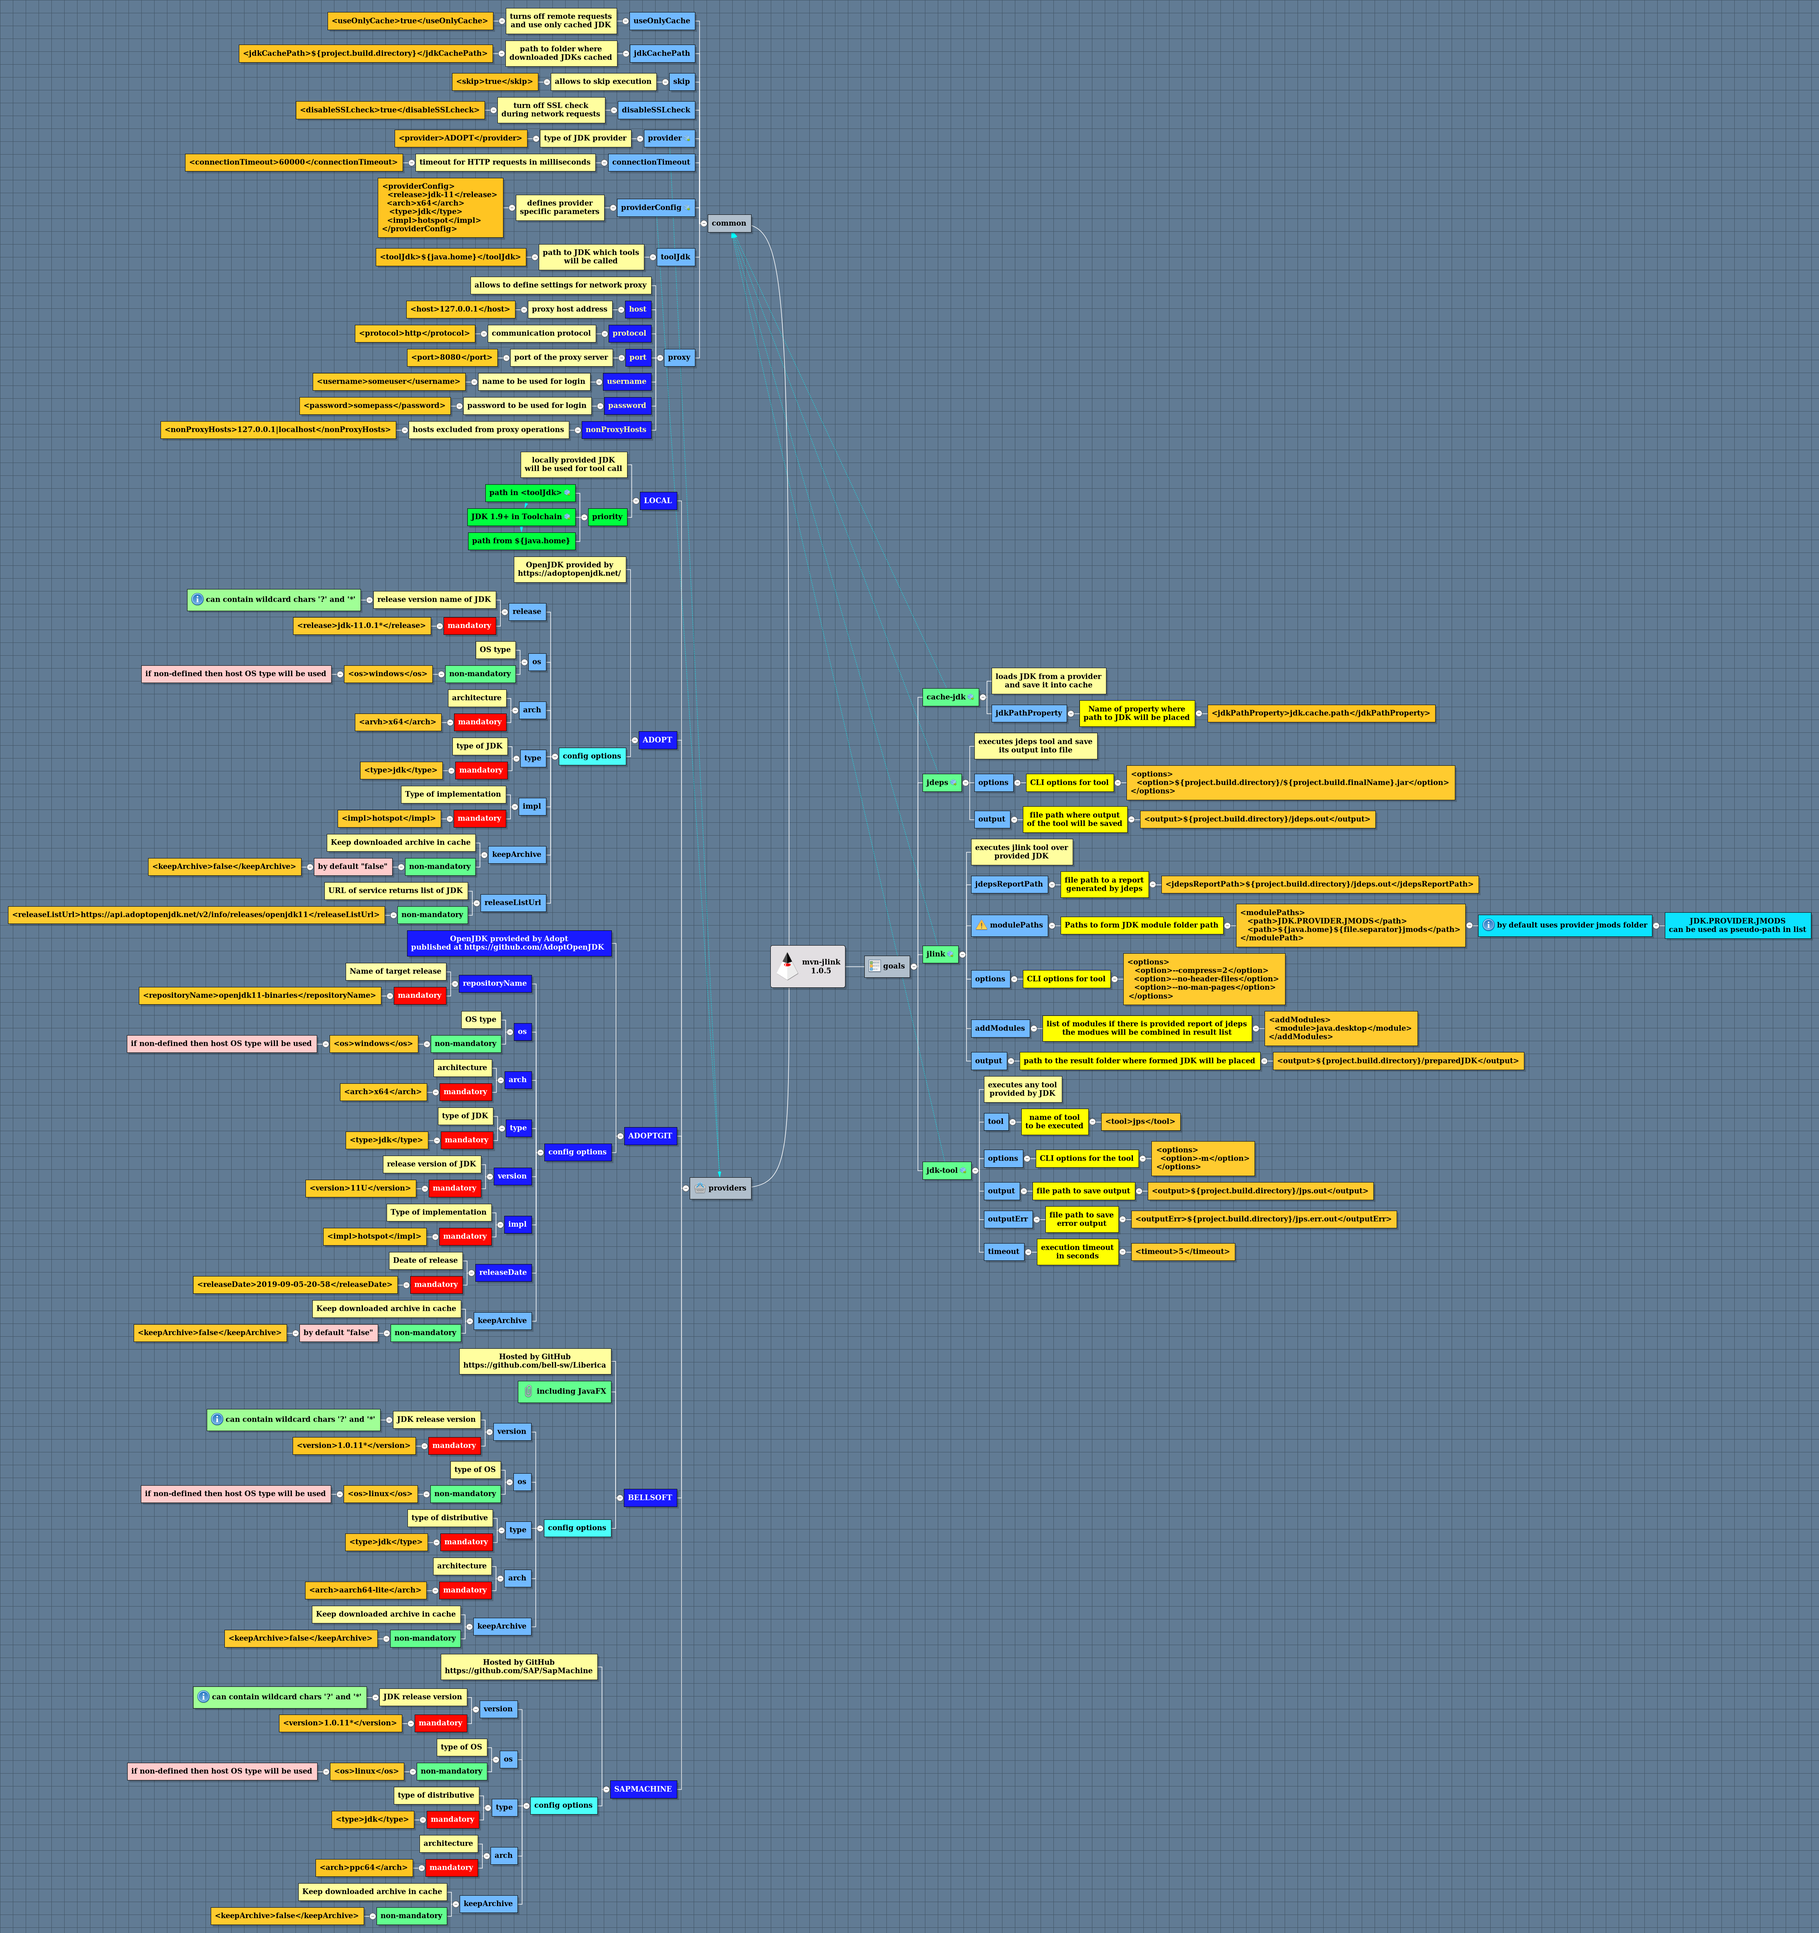
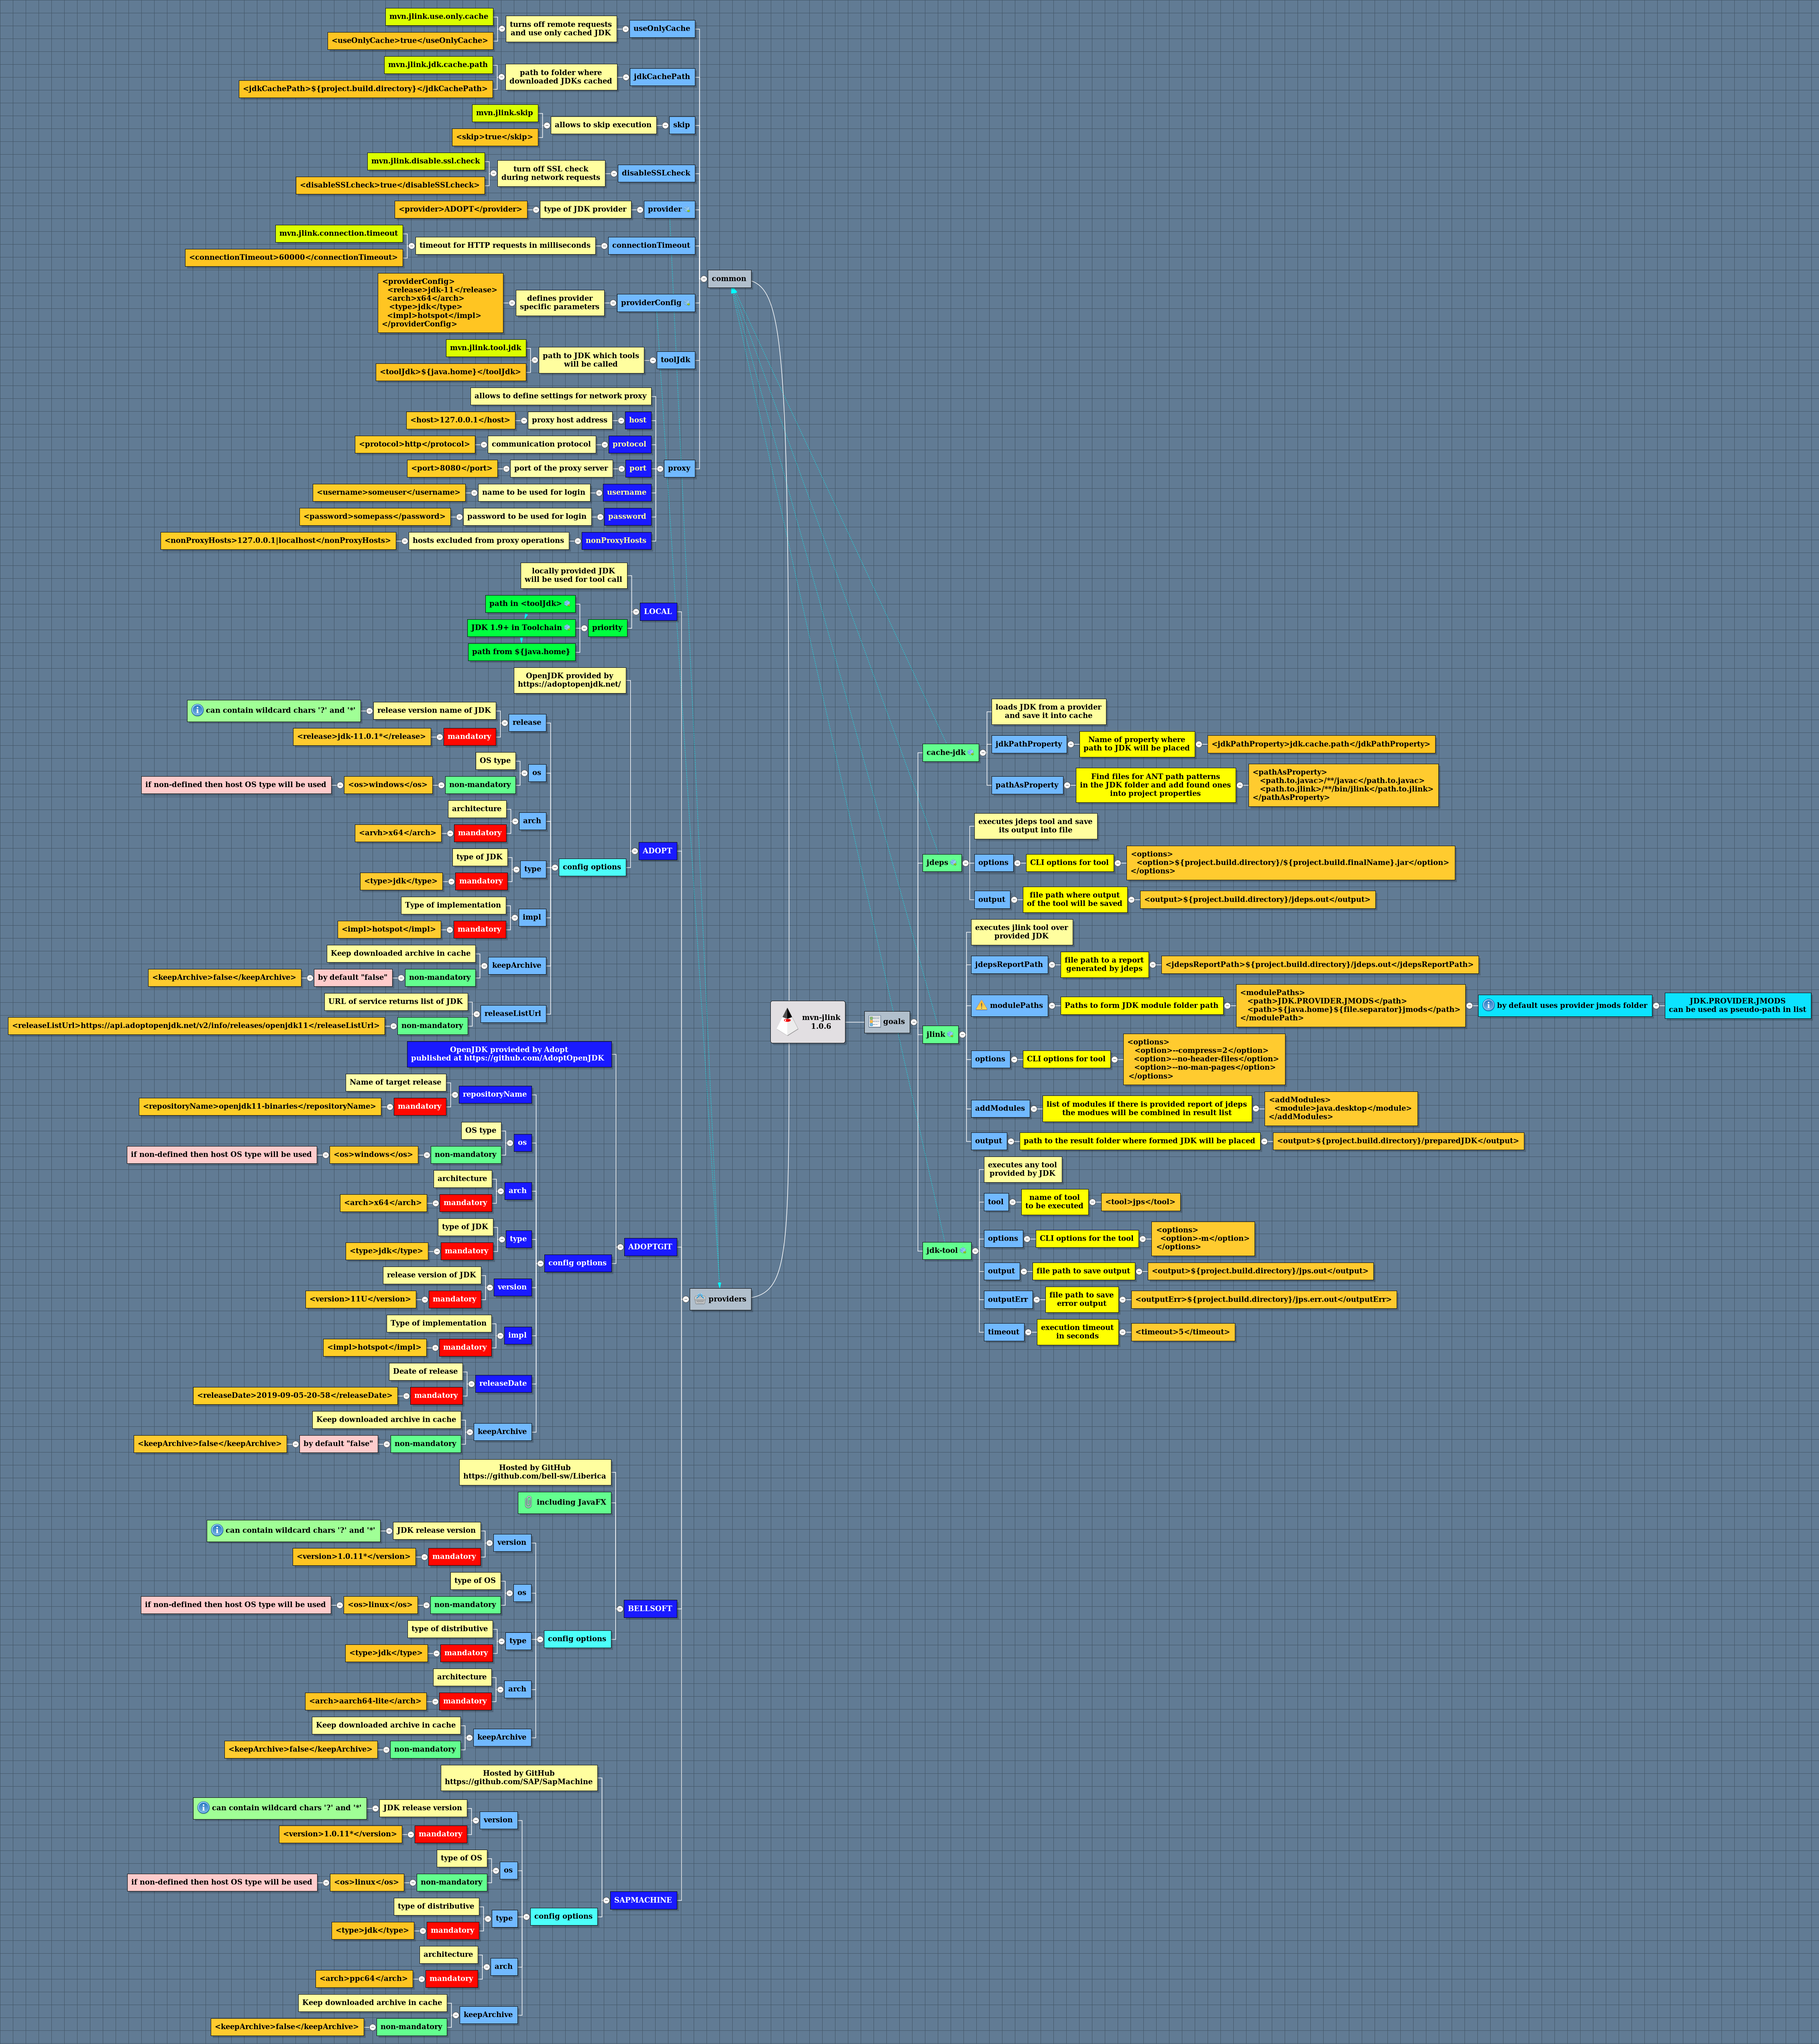
release 1.0.6

Changed region(s): [[0.0, 0.0, 1.0, 1.0], [0.4979, 0.3428, 1.0, 0.6855]]

diff --git a/mvn-jlink-wrapper/src/main/java/com/igormaznitsa/mvnjlink/mojos/AbstractJdkToolMojo.java b/mvn-jlink-wrapper/src/main/java/com/igormaznitsa/mvnjlink/mojos/AbstractJdkToolMojo.java
@@ -59,12 +59,14 @@ public abstract class AbstractJdkToolMojo extends AbstractMojo {
 
   /**
    * Disable loading and use only cached JDKs.
+   * Can be overriden by property 'mvn.jlink.use.only.cache'
    */
   @Parameter(defaultValue = "false", name = "useOnlyCache")
   private boolean useOnlyCache;
 
   /**
    * Path to JDK cache folder.
+   * Can be overriden by property 'mvn.jlink.jdk.cache.path'
    */
   @Parameter(defaultValue = "${user.home}${file.separator}.mvnJlinkCache", name = "jdkCachePath")
   private String jdkCachePath = System.getProperty("user.home") + File.separator + ".mvnJlinkJdkCache";
@@ -77,18 +79,21 @@ public abstract class AbstractJdkToolMojo extends AbstractMojo {
 
   /**
    * Skip processing of the mojo.
+   * Can be overriden by property 'mvn.jlink.skip'
    */
   @Parameter(name = "skip", defaultValue = "false")
   private boolean skip;
 
   /**
    * Disable SSL check during network operations.
+   * Can be overriden by 'mvn.jlink.disable.ssl.check'
    */
   @Parameter(name = "disableSSLcheck", defaultValue = "false")
   private boolean disableSSLcheck;
 
   /**
    * Define connection timeout for HTTP requests in milliseconds.
+   * Can be overriden by property 'mvn.jlink.connection.timeout'
    *
    * @since 1.0.2
    */
@@ -115,6 +120,7 @@ public abstract class AbstractJdkToolMojo extends AbstractMojo {
 
   /**
    * Path to JDK which tools will be used.
+   * Can be overriden by property 'mvn.jlink.tool.jdk'
    */
   @Parameter(name = "toolJdk")
   private String toolJdk = null;
@@ -123,7 +129,8 @@ public abstract class AbstractJdkToolMojo extends AbstractMojo {
   private ToolchainManager toolchainManager;
 
   public int getConnectionTimeout() {
-    return this.connectionTimeout;
+    return Integer.parseInt(Objects.requireNonNull(findProperty("mvn.jlink.connection.timeout",
+        Integer.toString(this.connectionTimeout))));
   }
 
   @Nullable
@@ -185,7 +192,7 @@ public abstract class AbstractJdkToolMojo extends AbstractMojo {
   @Override
   public final void execute() throws MojoExecutionException, MojoFailureException {
     if (isSkip()) {
-      this.getLog().debug("Skip flag is active");
+      this.getLog().info("Skipping execution");
     } else {
       onExecute();
     }

diff --git a/mvn-jlink-wrapper/src/main/java/com/igormaznitsa/mvnjlink/mojos/MvnCacheJdkMojo.java b/mvn-jlink-wrapper/src/main/java/com/igormaznitsa/mvnjlink/mojos/MvnCacheJdkMojo.java
@@ -49,6 +49,14 @@ public class MvnCacheJdkMojo extends AbstractJdkToolMojo {
    * Find file paths in JDK root and place found ones as project properties.
    * Tag name is used as property name (it will be added into project properties) and value contains ANT match pattern.
    * If any file for pattern is not found then mojo execution failed
+   * <pre>
+   * {@code
+   * <pathAsProperty>
+   *   <path.to.javac>/**&#47;javac</path.to.javac>
+   *   <path.to.jlink>/**&#47;bin/jlink</path.to.jlink>
+   * </pathAsProperty>
+   * }
+   * </pre>
    *
    * @since 1.0.6
    */

diff --git a/README.md b/README.md
@@ -8,8 +8,9 @@
 ![logo](https://raw.githubusercontent.com/raydac/mvn-jlink/master/assets/logo.png)   
 
 # Changelog
-__1.0.6 (SNAPSHOT)__
- - improved `cache-jdk` mojo, added feature to search files in cached JDK root through ANT patterns and place found paths as project properties
+__1.0.6 (20-jan-2020)__
+ - added support of properties to override some config parameters
+ - [#4](https://github.com/raydac/mvn-jlink/issues/4) improved `cache-jdk` mojo, added feature to search files in cached JDK root through ANT patterns and place found paths as project properties
 
 __1.0.5 (23-dec-2019)__
  - [#3](https://github.com/raydac/mvn-jlink/issues/2) corrected exception processing on parsing of Liberica src package name
